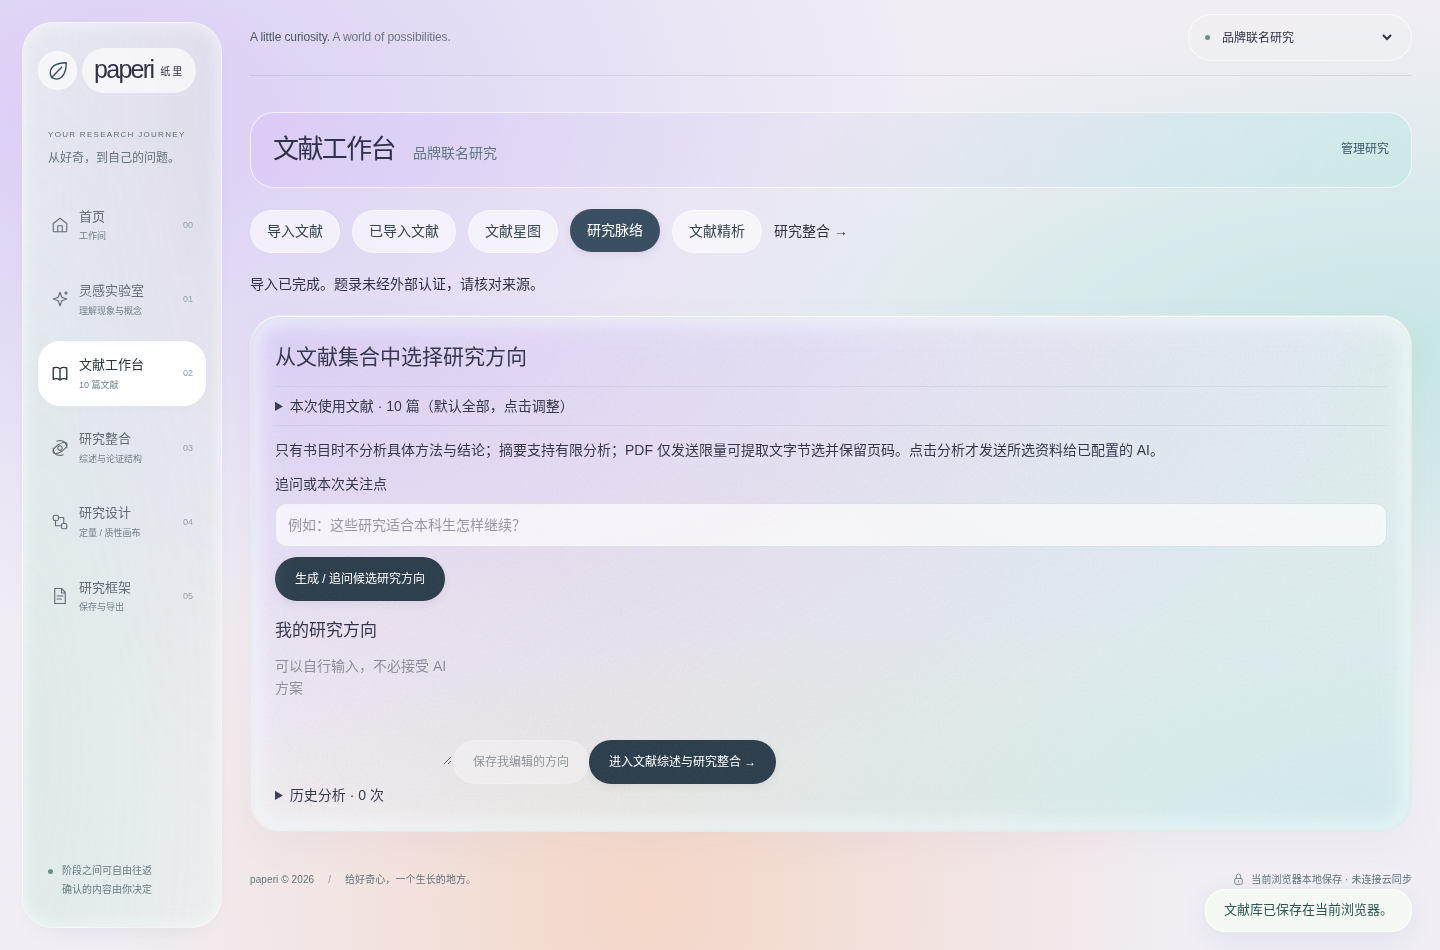
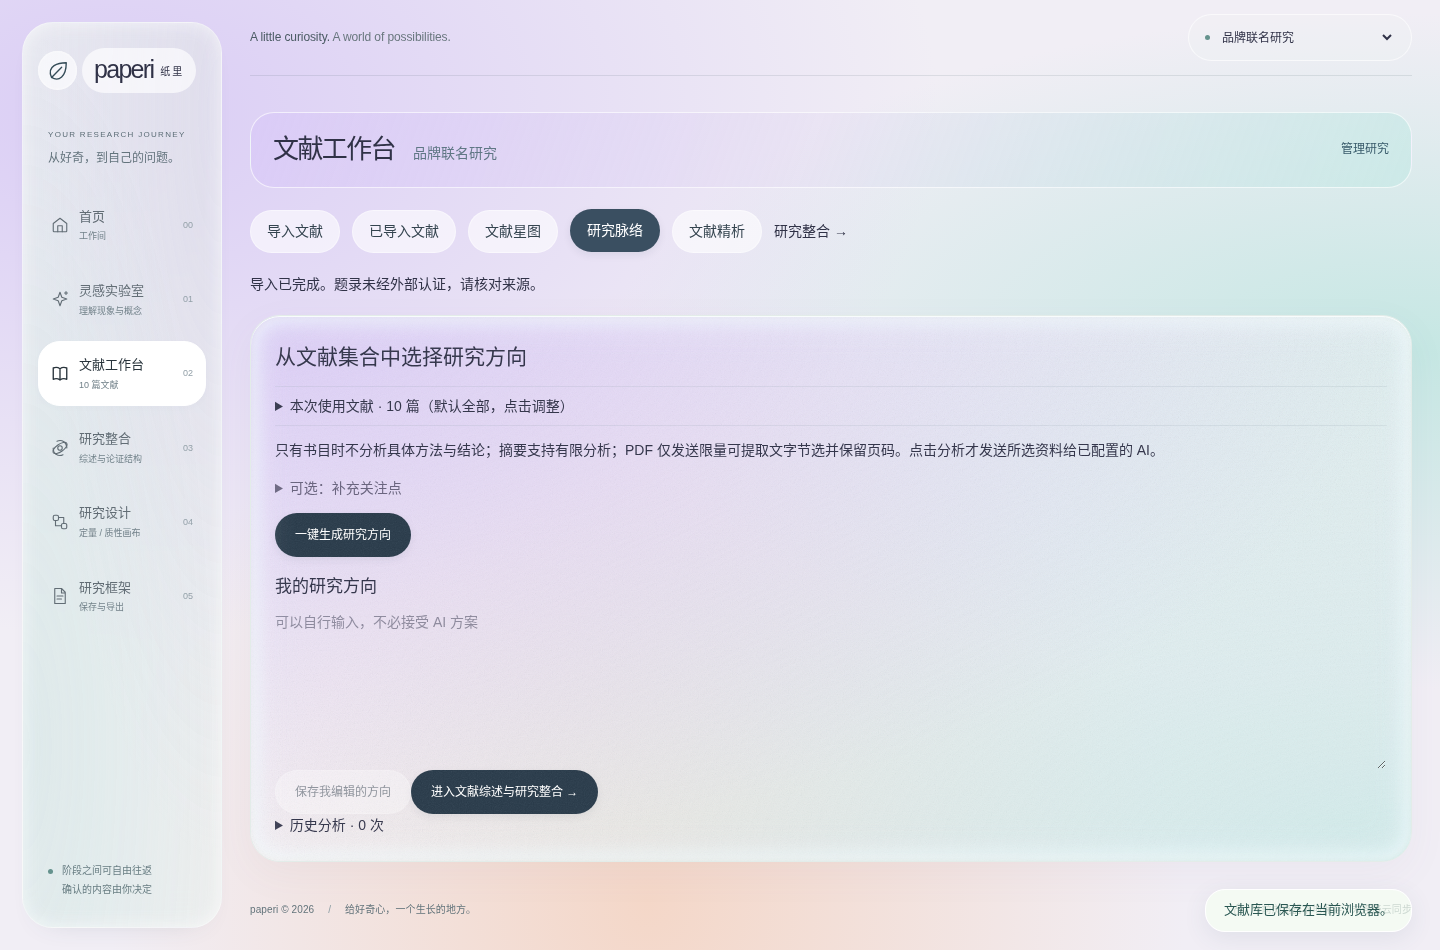
Polish citation sky and document acceptance verification limits

diff --git a/src/app/globals.css b/src/app/globals.css
@@ -661,3 +661,4 @@ body{background:radial-gradient(ellipse at 8% 12%,#dacdf5 0%,transparent 44%),ra
 
 /* Acceptance fixes: useful defaults, source states and a quieter academic sky. */
 .optional-question{margin:14px 0}.optional-question summary{cursor:pointer;color:#66617b}.direction-editor{display:block;width:100%;min-height:160px;line-height:1.8;resize:vertical}.chosen-direction{margin:16px 0;padding:20px;border:1px solid #ffffffad;border-radius:22px;background:linear-gradient(115deg,#e9e0f4ba,#daf0e9b8);overflow-wrap:anywhere}.analysis-card>p{white-space:pre-wrap;line-height:1.9}.library-entry{display:flex;flex-wrap:wrap;gap:12px;align-items:center;margin:16px 0}.keyword-preview{display:grid;grid-template-columns:repeat(2,minmax(0,1fr));gap:12px;margin:18px 0}.keyword-preview section{padding:16px;background:#ffffff66;border-radius:20px}.keyword-preview h3{font-size:14px;margin:0 0 10px}.keyword-preview button{display:block;text-align:left;margin:6px 0;max-width:100%;overflow-wrap:anywhere}.citation-empty{padding:20px 24px;margin:20px 0;border-radius:24px;background:linear-gradient(110deg,#ece4f5dc,#dcf1edd9);border:1px solid #ffffffaa}.citation-empty h3{margin-top:0}.citation-empty p{max-width:100ch;line-height:1.8}.citation-empty button{margin:8px 16px}.citation-sky{background:radial-gradient(ellipse at 18% 30%,#d8cbf38c,transparent 45%),radial-gradient(ellipse at 85% 70%,#ace0d470,transparent 48%),#f4f3fa85}.constellation .node-canvas{background-image:radial-gradient(#8675a44d .8px,transparent .8px);background-size:26px 26px;min-height:360px;max-height:62vh}.constellation .star-halo{fill:#c6b4ef45;stroke:#c4b2e578;stroke-width:1;pointer-events:none}.constellation .canvas-node rect{fill:#f3edffeb;stroke:#b6a0d2;stroke-width:1.2;filter:drop-shadow(0 5px 10px #a797bf30)}.constellation .canvas-node.is-secondary rect{fill:#e6f6efea;stroke:#83bba8}.constellation .canvas-node.is-selected rect{stroke:#776297;stroke-width:2.5;fill:#eee0fd}.constellation .canvas-node{animation:star-arrive .45s ease both}.constellation .canvas-node:hover .star-halo{fill:#c1aae77a}.constellation .canvas-edge path{stroke:#9a87b9;opacity:.8}.reference-excerpts pre{white-space:pre-wrap;overflow-wrap:anywhere;max-height:320px;overflow:auto}.import-surface:focus-within{outline:1px solid #a89bbd55}@keyframes star-arrive{from{opacity:0}to{opacity:1}}@media(prefers-reduced-motion:reduce){.constellation .canvas-node{animation:none}}@media(max-width:600px){.keyword-preview{grid-template-columns:1fr}.citation-empty{padding:16px}.constellation .node-canvas{min-height:280px}}
+.constellation .canvas-node .star-hit{fill:transparent;stroke:none;filter:none}.constellation .canvas-node .star-core{fill:#9e86c9;stroke:#fff;stroke-width:2;filter:drop-shadow(0 0 9px #9b7bc5aa)}.constellation .canvas-node.is-secondary .star-core{fill:#7bb6a5}.constellation .canvas-node.is-selected .star-core{fill:#7858ab;stroke-width:3}.constellation .star-glint{fill:#ffffffb8;pointer-events:none}.constellation .canvas-node text{font-size:16px}.constellation .canvas-node .node-subtitle{font-size:12px;fill:#77718a}.constellation .canvas-node.is-selected .star-halo{fill:#b29cda5e;stroke:#9376c2}.constellation .canvas-node:hover .star-core{stroke:#fff;stroke-width:4}

diff --git a/src/components/node-canvas.tsx b/src/components/node-canvas.tsx
@@ -173,7 +173,7 @@ export function NodeCanvas({
               y = position(b),
               dx = y.x - x.x,
               dy = y.y - x.y,
-              t = Math.min(110 / (Math.abs(dx) || 1), 45 / (Math.abs(dy) || 1));
+              t = constellation ? 22 / Math.max(1,Math.hypot(dx,dy)) : Math.min(110 / (Math.abs(dx) || 1), 45 / (Math.abs(dy) || 1));
             return (
               <g key={i} className="canvas-edge">
                 <path
@@ -254,20 +254,20 @@ export function NodeCanvas({
                 }}
               >
                 <title>{n.title}</title>
-                {constellation&&<circle className="star-halo" cx="110" cy="45" r={n.secondary?"36":"48"}/>}
+                {constellation ? <>
+                  <rect className="star-hit" width="220" height="120" rx="32"/>
+                  <circle className="star-halo" cx="110" cy="45" r={n.secondary?"30":"42"}/>
+                  <circle className="star-core" cx="110" cy="45" r={n.secondary?"12":"19"}/>
+                  <circle className="star-glint" cx="105" cy="40" r="4"/>
+                  <text x="110" y="-6" textAnchor="middle" className="node-subtitle">{n.subtitle}</text>
+                  <text x="110" y="90" textAnchor="middle">{n.title.slice(0,16)}</text>
+                  {n.title.length>16&&<text x="110" y="112" textAnchor="middle">{n.title.slice(16,31)}{n.title.length>31?"…":""}</text>}
+                </> : <>
                 <rect width="220" height="90" rx="24" />
-                <text x="16" y="28" className="node-subtitle">
-                  {n.subtitle?.slice(0, 24)}
-                </text>
-                <text x="16" y="53">
-                  {n.title.slice(0, 24)}
-                </text>
-                {n.title.length > 24 && (
-                  <text x="16" y="73">
-                    {n.title.slice(24, 47)}
-                    {n.title.length > 47 ? "…" : ""}
-                  </text>
-                )}
+                <text x="16" y="28" className="node-subtitle">{n.subtitle?.slice(0,24)}</text>
+                <text x="16" y="53">{n.title.slice(0,24)}</text>
+                {n.title.length>24&&<text x="16" y="73">{n.title.slice(24,47)}{n.title.length>47?"…":""}</text>}
+                </>}
               </g>
             );
           })}

diff --git a/src/components/citation-network.tsx b/src/components/citation-network.tsx
@@ -59,17 +59,17 @@ export function CitationNetwork({ project: p }: { project: Project }) {
     const item=lib.items.find(i=>i.paper.key===selected);
     if(!item?.attachment){setError("请先选择已关联 PDF 的一级文献；可在已导入文献中附加原文。");return;}
     try{const file=await getPDF(p.id,item.attachment.id);if(!file)throw new Error("本浏览器找不到该 PDF，请重新附加。");
-      const start=file.pages.findIndex(t=>/参考文献|references\s*\n/i.test(t));
+      const start=file.pages.findLastIndex(t=>/(?:^|[\n\r])\s*(?:\d+[.、]?\s*)?(?:参考文献|references)\s*(?:\n|$)/i.test(t));
       if(start<0)throw new Error("可提取正文中没有识别到参考文献标题。请在原 PDF 中核对；未推断引用关系。");
       setReferences(file.pages.slice(start,start+6).map((text,i)=>({page:start+i+1,text:text.slice(0,10000)})));
     }catch(e){setError(e instanceof Error?e.message:"读取失败");}
   }
-  async function load() {
+  async function load(only?:string) {
     setPending(true);
     setError("");
     controller.current = new AbortController();
     const todo = lib.items
-      .filter((i) => (i.paper.doi || i.paper.openAlexId) && !graphs[i.id])
+      .filter((i) => (i.paper.doi || i.paper.openAlexId) && (only ? i.paper.key===only : !graphs[i.id]))
       .slice(0, 3);
     if (!todo.length) {
       setError(
@@ -240,6 +240,7 @@ export function CitationNetwork({ project: p }: { project: Project }) {
                   加入当前文献库
                 </button>
               )}
+              {primaryKeys.has(detail.key)&&<button disabled={pending||!detail.doi&&!detail.openAlexId} onClick={()=>void load(detail.key)}>加载这篇文献的真实引用</button>}
               <h4>相邻引用关系及依据</h4>
               {network.edges
                 .filter((e) => e.from === detail.key || e.to === detail.key)

diff --git a/src/components/design-canvas.tsx b/src/components/design-canvas.tsx
@@ -1,4 +1,5 @@
 "use client";
+import {cleanDirection} from "@/lib/workflow";
 import Link from "next/link";
 import {sourceFingerprint} from "@/lib/workflow";
 import {WorkflowSelection} from "./literature-analysis";
@@ -261,7 +262,7 @@ function Designer({
         </button>
         <span role="status">{dirty ? "有未保存修改" : "已保存内容"}</span>
       </div>
-      <WorkflowSelection project={p} /><p className="source-notice">研究问题与方向：{p.workflow?.direction?.text??p.exploration?.seed?.workingQuestion??p.observation}。模型连线是待检验假设或设计逻辑。</p><Link href="/review">返回文献综述</Link> · <Link href="/proposal">确认并导出完整研究框架 →</Link>
+      <WorkflowSelection project={p} /><p className="source-notice">研究问题与方向：{cleanDirection(p.workflow?.direction?.text??p.exploration?.seed?.workingQuestion??p.observation)}。模型连线是待检验假设或设计逻辑。</p><Link href="/review">返回文献综述</Link> · <Link href="/proposal">确认并导出完整研究框架 →</Link>
       {error && (
         <p className="literature-error" role="alert">
           {error}

diff --git a/src/components/research-preparation.tsx b/src/components/research-preparation.tsx
@@ -10,7 +10,7 @@ export function ResearchPreparation({ project: p, initialOpen=true }: { project:
   const { saveWorkflow, busy } = useProjects();
   const f = p.workflow ?? emptyWorkflow();
   const concepts=selectedConcepts(p);
-  const guide=p.exploration?.navigation?.guide?.keywords;
+  const guide=p.exploration?.navigation?.guides?.literature?.keywords ?? p.exploration?.navigation?.guide?.keywords;
   const defaults={...f.keywords,zh:concepts.join("\n"),expressions:guide?.zh?.join("\n") || concepts.join(" "),en:guide?.en?.join("\n") || ""};
   const [edited, setDraft] = useState<typeof f.keywords | null>(null),
     [url, setURL] = useState(f.libraryURL),

diff --git a/docs/ACCEPTANCE_REPAIR_2026_10_26.md b/docs/ACCEPTANCE_REPAIR_2026_10_26.md
@@ -41,4 +41,11 @@
 
 ## 自动化与浏览器记录
 
-收尾时追加实际结果，明确区分模拟协议、浏览器交互及真实外部调用。
+- lint、typecheck、production build 均通过。
+- 一次完整回归 **79/79 通过（2.5 分钟）**，包含新增五项验收用例、原项目隔离/备份恢复/删除关联保护、AI HTTP 适配器与生产限流等。AI 服务端测试使用本地协议夹具，未接真实 DeepSeek。
+- 星图星点/标签与逐篇展开、旧方向在设计页清理的收尾改动后，针对性浏览器回归 **9/9 通过（44.5 秒）**，覆盖混合多选和拖入、实际中文书目导入、本地草案持久化与导出、模拟方向选择与刷新、引用节点操作及 1440/1366/390px 布局；没有再重复整套测试。
+- 单独在真正的 `next dev --webpack` 中复验 PDF 导入（StrictMode），**1/1 通过（18.2 秒）**，浏览器没有 pageerror；测试 PDF 是标注的合成文字文件，不是用户原始论文。
+- 已逐张查看用户截图；也实际查看本轮浏览器产生的星图截图 `docs/screenshots/acceptance/citations-missing.png`。缺数状态有明确解释，图中没有关系线；其余工作流截图保留在 `docs/screenshots/workflow/`。截图中的测试项目不是实际 AI 研究成果。
+- 第一阶段提交 `109dd8c` 已正常推送，后续提交保存视觉收尾及最终记录。未改 main、未强制推送、未删除原数据；凭证特征扫描无匹配，跟踪的环境文件仅 `.env.example`。
+
+**仍未完成的真实验收：** 用户真实 PDF 上的 DeepSeek 方法/结论精析、三篇摘要的真实综述质量、实际 DOI 引用连线、中文样本 OpenAlex 覆盖。密钥未配置及出口策略受限是本轮的实际边界，不将上述代码和浏览器通过等同于这些外部能力成功。

diff --git a/README.md b/README.md
@@ -1,6 +1,8 @@
 # Paperi 纸里
 
-最新调整：[导入优先、开发模式 PDF 卡住修复与彩色磨砂界面](docs/IMPORT_AND_GLASS_REFINEMENT.md)。
+最新验收修复：[八项原始反馈的根因、修复、真实能力边界与 Mac 复验](docs/ACCEPTANCE_REPAIR_2026_10_26.md)。
+
+此前调整：[导入优先、开发模式 PDF 卡住修复与彩色磨砂界面](docs/IMPORT_AND_GLASS_REFINEMENT.md)。
 
 **让研究想法、学术文献和研究设计连成一个可持续编辑的工作流。**
 
